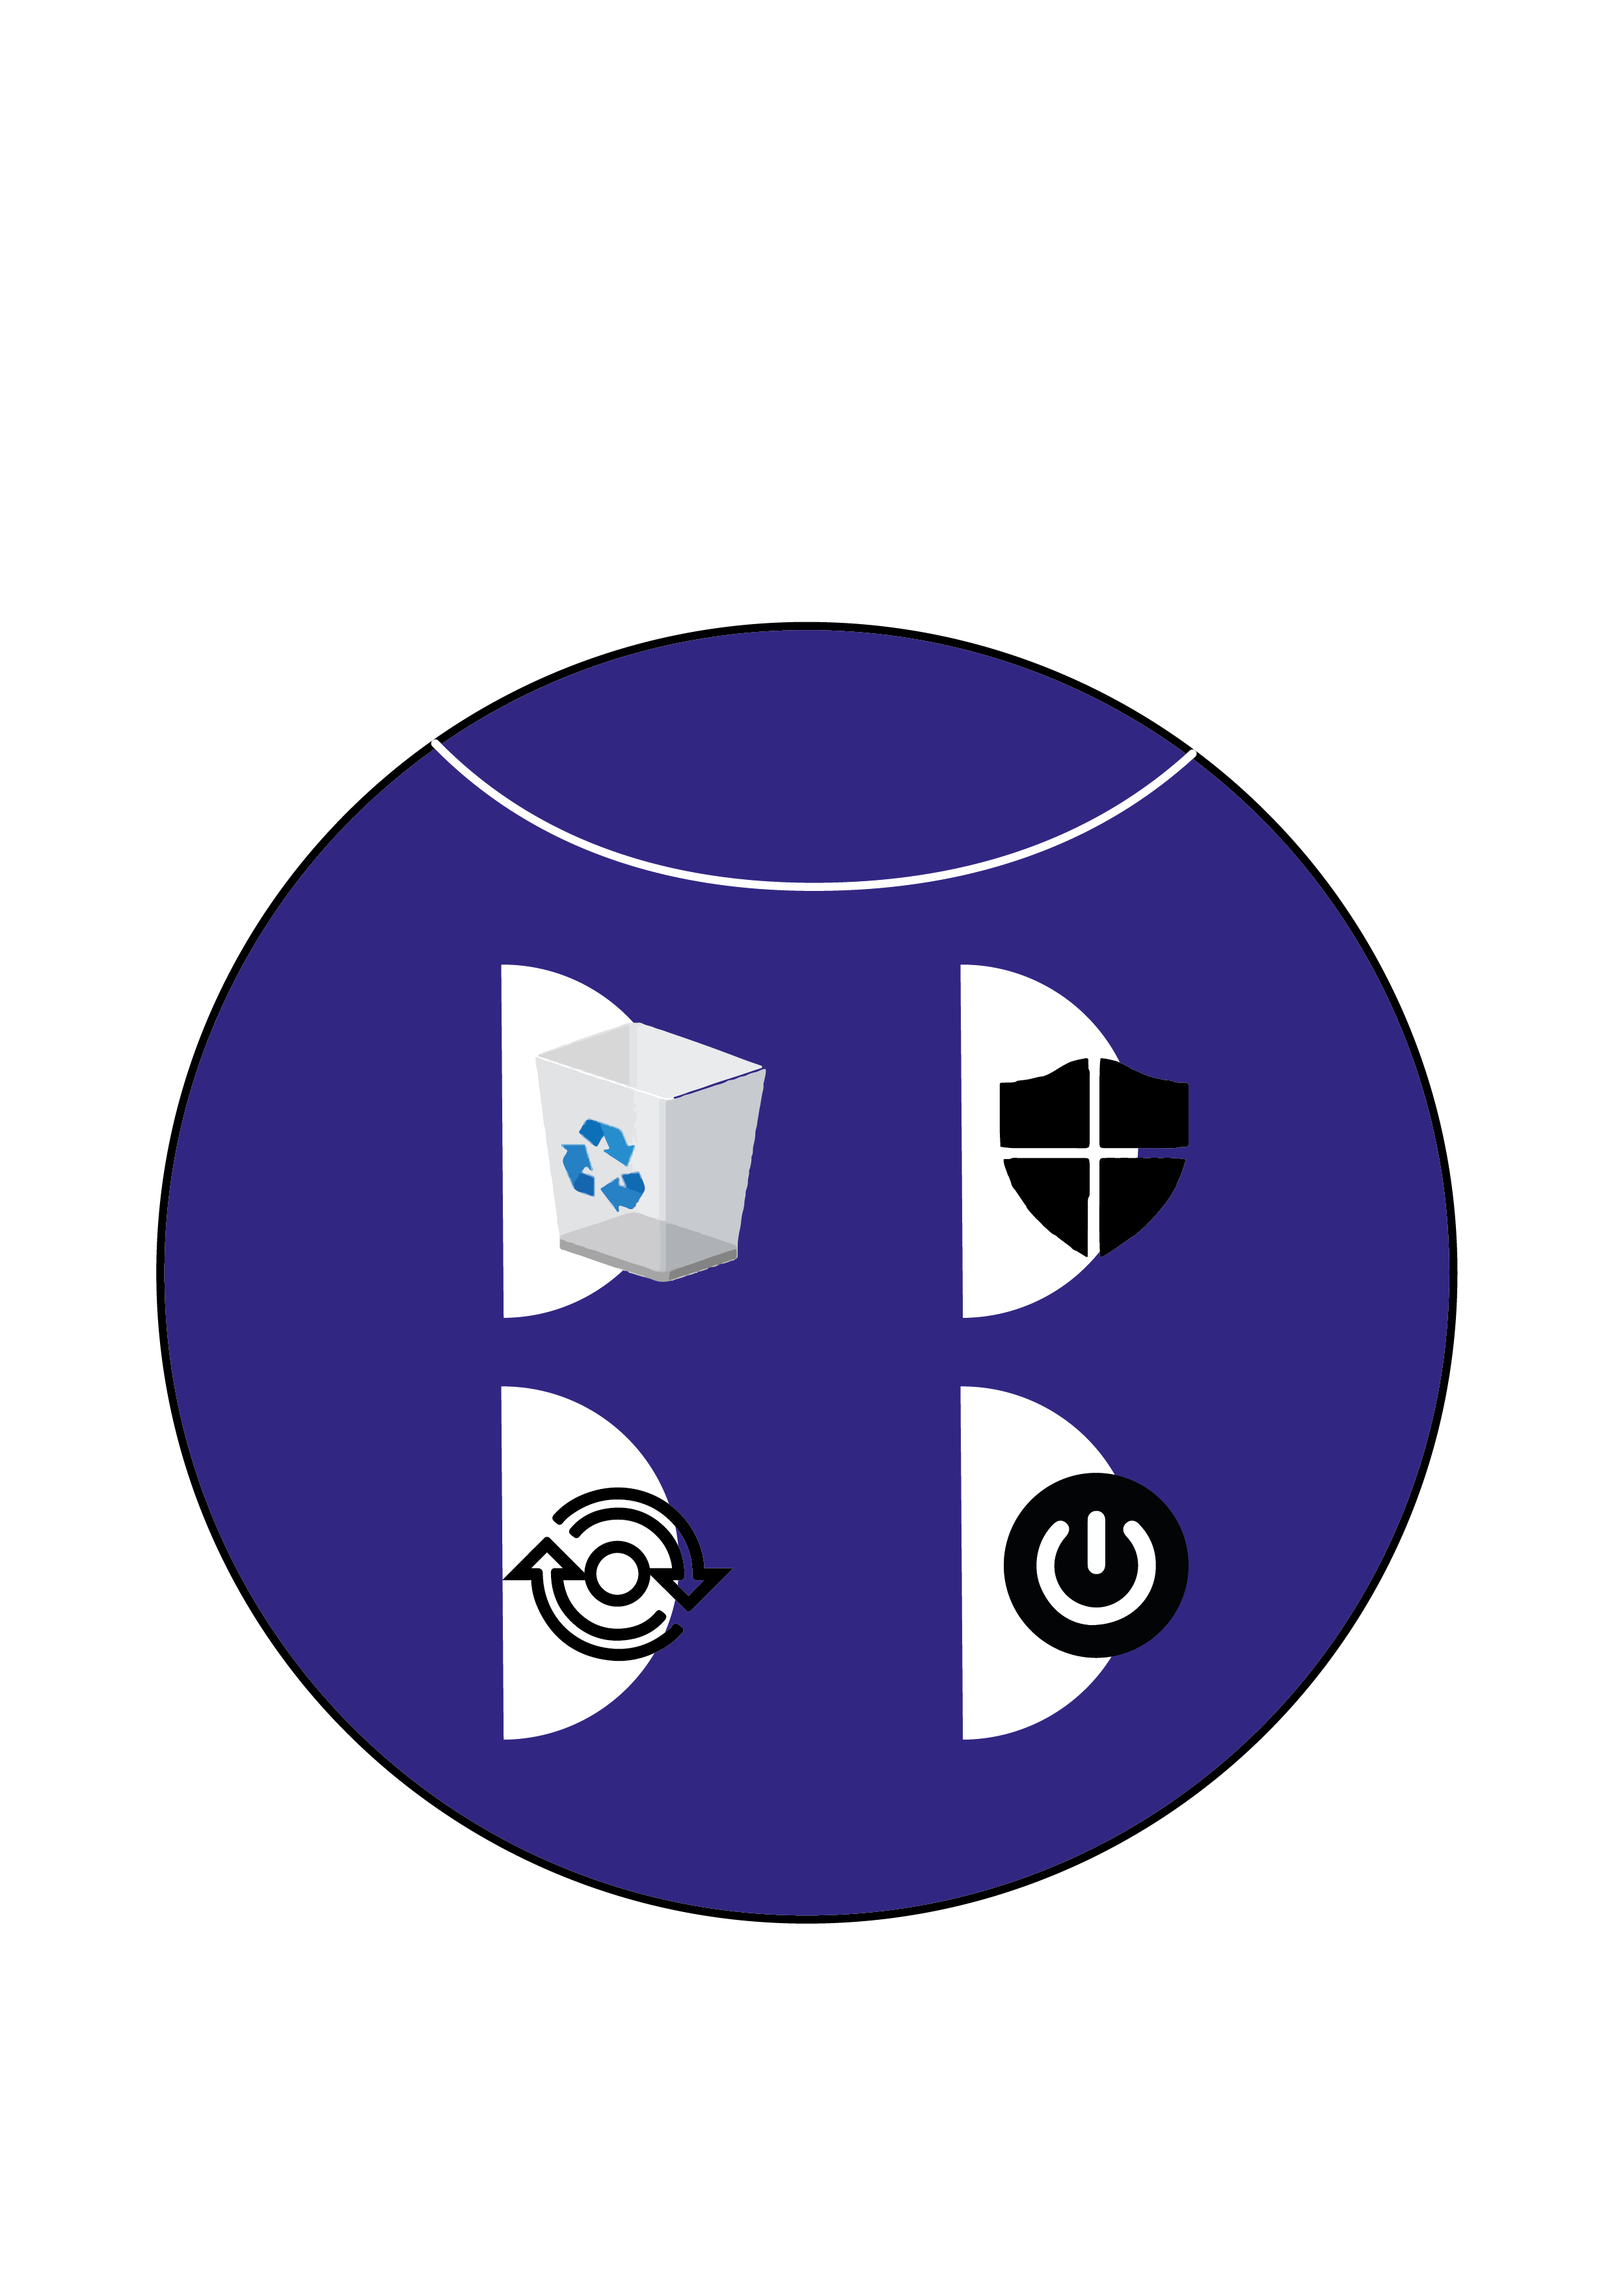
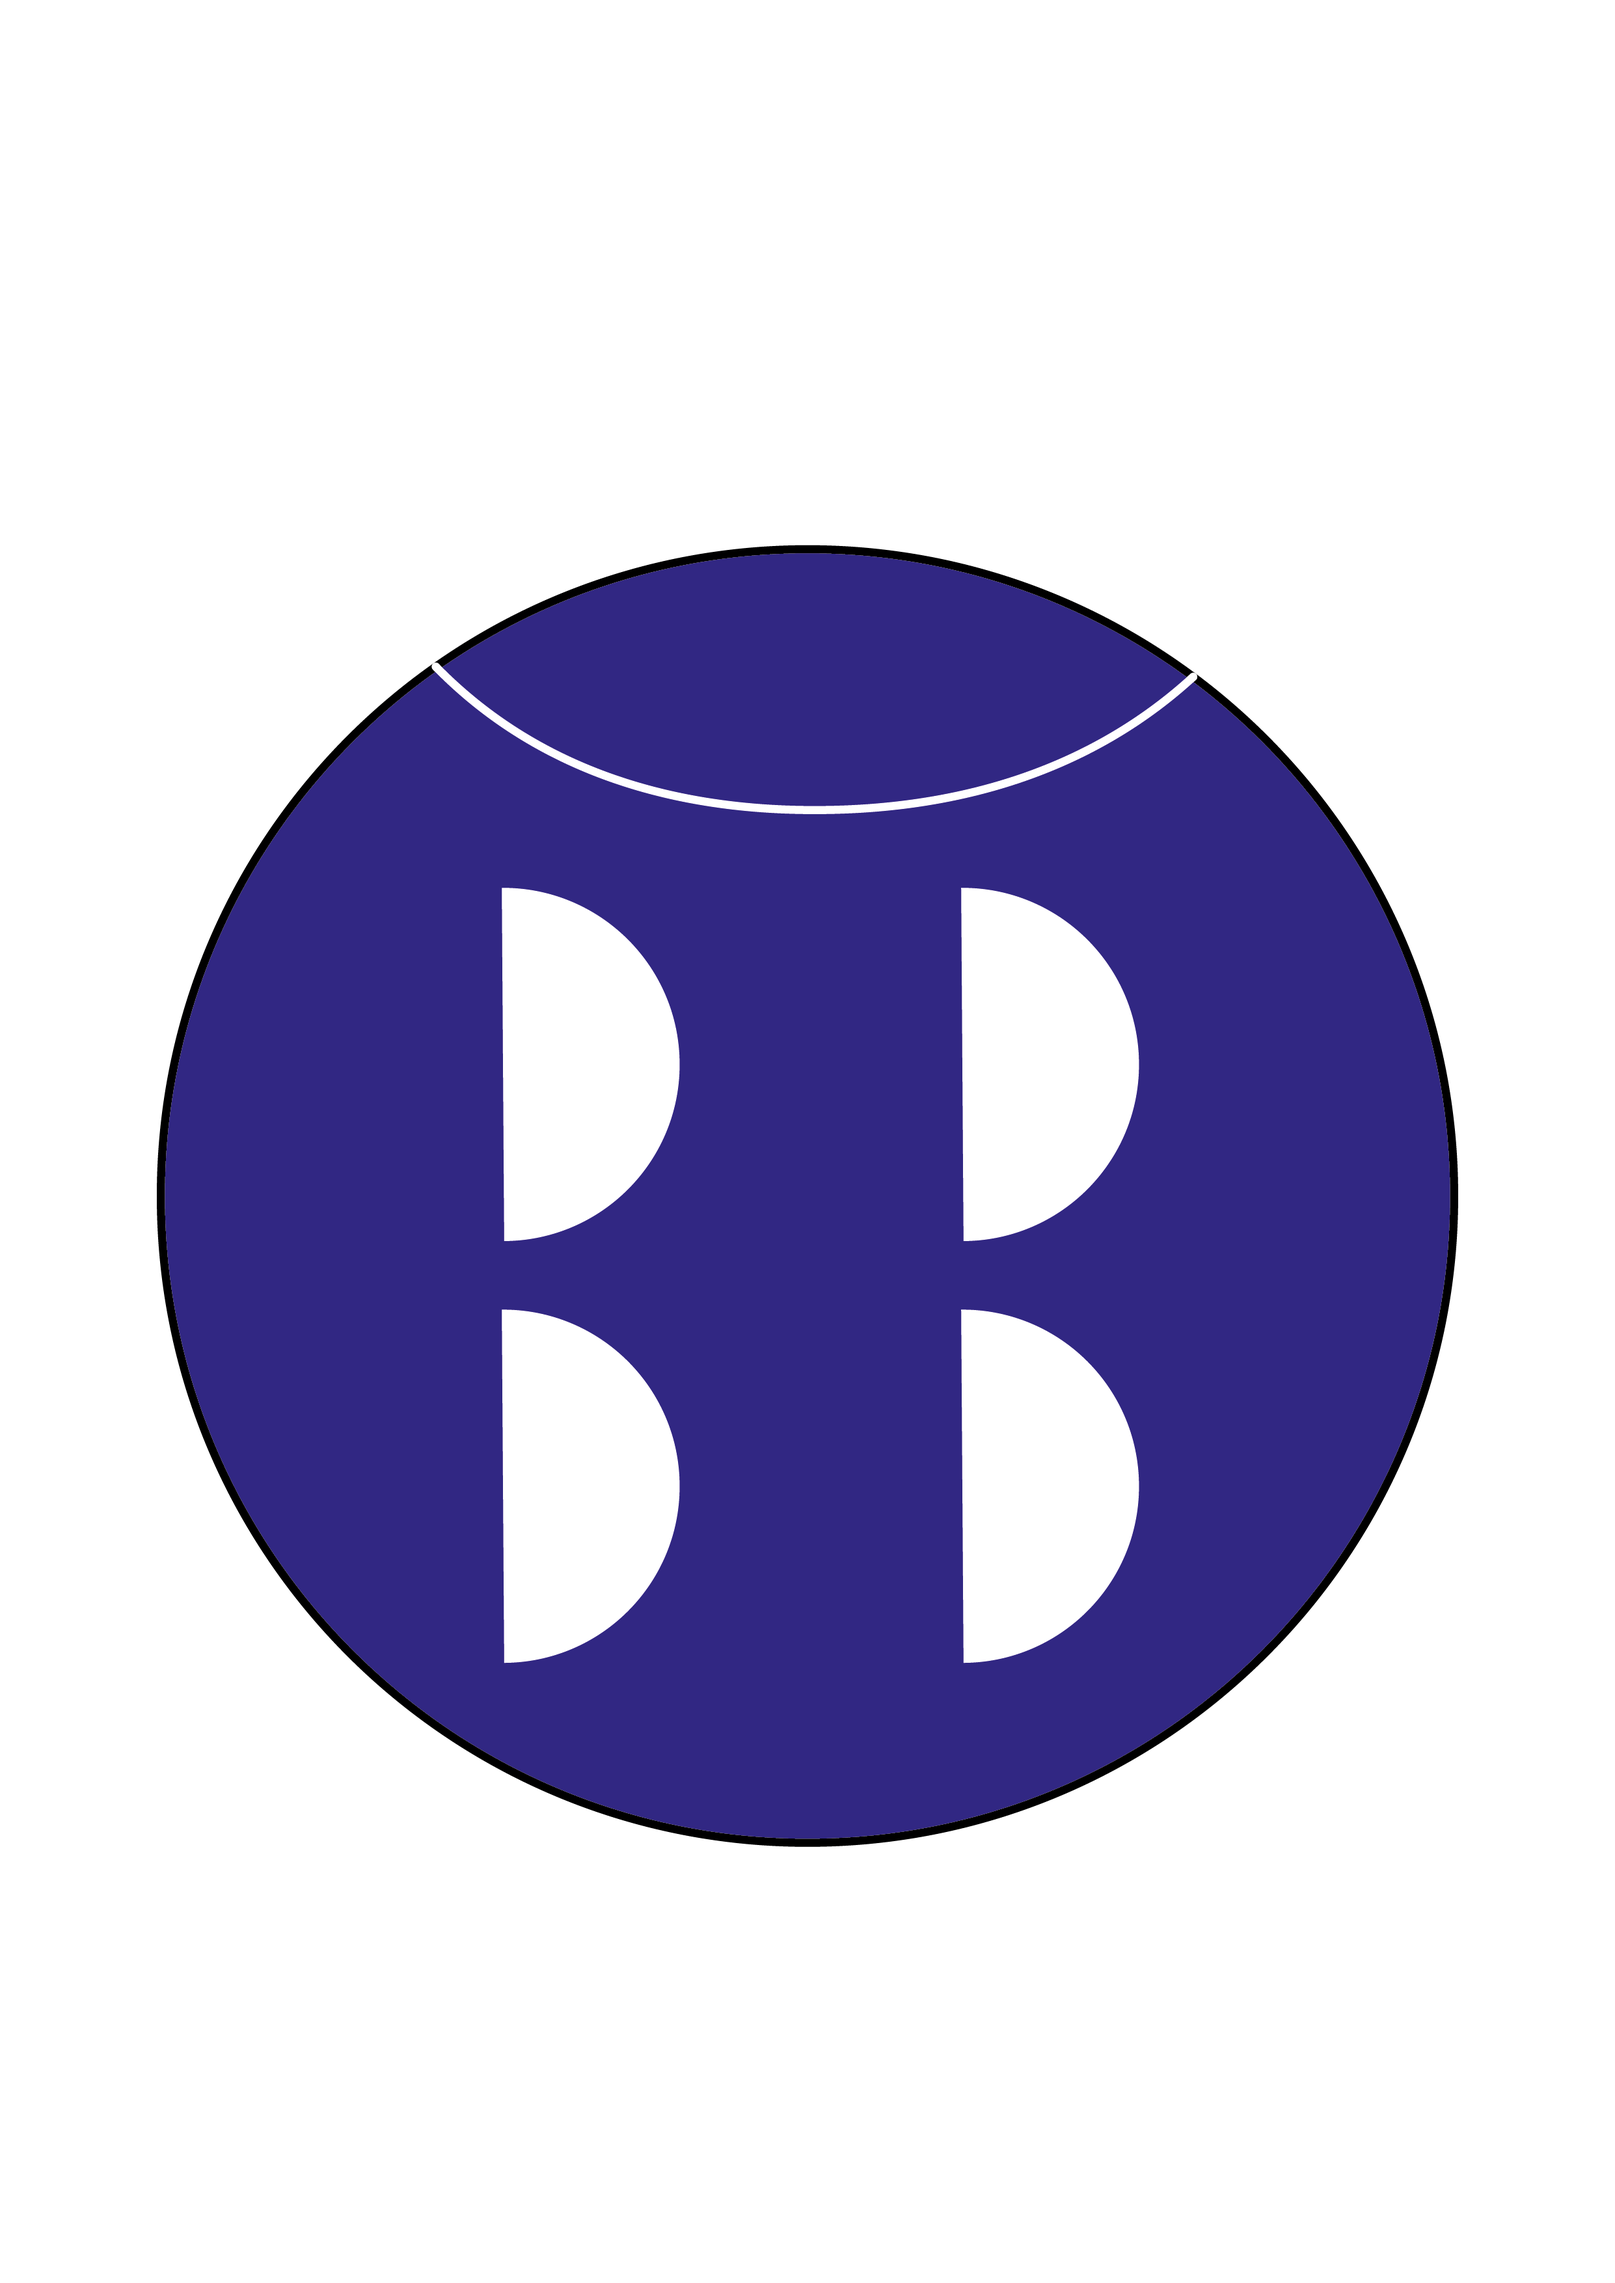
Update frontend
Se agregaron botones en utilidades solo falta posicionarlos y darle mas tamaño.

Changed region(s): [[0.0931, 0.2175, 0.9, 0.87]]

diff --git a/frontend/src/app/components/utilidades/utilidades.component.html b/frontend/src/app/components/utilidades/utilidades.component.html
@@ -1,1 +1,60 @@
-<div class="img"></div>
+<div class="container img border ">
+
+  <div class ="row"> <button class =" flecha"type="button" href="/home">
+
+    Flecha de regreso a home</button> </div>
+
+
+
+<div class ="row">
+
+  <div class="col-6">
+
+      <br><br>
+      <br><br>
+      <br><br><br>
+      <br>
+      <button class =" container papelera border"type="button">
+        <img src="../../../assets/images/papelera.png" height ="80" width="100" /></button>
+
+    <div class="col-sm-6"></div>
+
+  </div>
+
+    <div class="col-sm-6">
+
+        <br><br>
+        <br><br>
+        <br><br><br><br>
+
+        <button class ="container antivirus border"type="button ">
+          <img src="../../../assets/images/seguridad.png" height ="80" width="100" /></button>
+
+      <div class="col-sm-6"></div>
+
+
+    </div>
+
+<div class="row">
+  <div class="col-sm-6">
+
+<br><br>
+      <button class =" container w-update border"type="button">
+        <img src="../../../assets/images/Wupdate.png" height ="80" width="100" /></button>
+
+  </div>
+
+    <div class="col-sm-6">
+
+        <br><br>
+
+        <button class =" container apagado border"type="button">
+           <img src="../../../assets/images/apagado.png" height ="80" width="100" /></button>
+
+    </div>
+
+</div>
+
+</div>
+
+

diff --git a/frontend/src/app/components/home/home.component.html b/frontend/src/app/components/home/home.component.html
@@ -4,20 +4,20 @@
 
     <div class="row">
       <div class="col">
-        <div class="container " >
+
           <br><br>
           <br><br>
           <br><br><br>
           <br>
-          <a type ="nav-link" class="btn atajos " href="/atajos" >Atajos</a>
-        </div>
+          <a type ="nav-link " class="container btn atajos  " href="/atajos" >Atajos</a>
+
       </div>
       <div class="col" >
         <br><br>
         <br><br>
         <br><br><br>
         <br>
-        <a type ="nav-link" class="btn utilidades " href="/utilidades" >Utilidades</a>
+        <a type ="nav-link" class="btn utilidades container" href="/utilidades" >Utilidades</a>
       </div>
 
     </div>
@@ -25,12 +25,12 @@
     <div class="row" >
       <div class="col">
         <div class="container  " >
-          <a type ="nav-link" class="btn acerca-de " href="/acerca-de" >Acerca de</a>
+          <a type ="nav-link" class="container btn acerca-de " href="/acerca-de" >Acerca de</a>
         </div>
       </div>
       <div class="col" >
 
-        <a type ="nav-link" class="btn salir " href="/salir" >Salir</a>
+        <a type ="nav-link" class="container btn salir " href="/salir" >Salir</a>
       </div>
 
     </div>

diff --git a/frontend/src/app/components/utilidades/utilidades.component.scss b/frontend/src/app/components/utilidades/utilidades.component.scss
@@ -1,11 +1,30 @@
 .img {
   background-image: url(../../../assets/images/utilidades.png);
   background-repeat: no-repeat;
-  background-size:cover;
+  background-size: cover;
   height: 600px;
   width: 600px;
   background-attachment: absolute;
-  background-position: center center ;
+  background-position: center center;
+  justify-content: center;
 
+}
+.papelera {
+  background-color: transparent;
+  border-color: transparent;
 
+float: right;
+
+}
+.w-update {
+  background-color: transparent;
+  border-color: transparent;
+}
+.apagado {
+  background-color: transparent;
+  border-color: transparent;
+}
+.antivirus {
+  background-color: transparent;
+  border-color: transparent;
 }

diff --git a/frontend/src/styles.scss b/frontend/src/styles.scss
@@ -1,6 +1,8 @@
 /* You can add global styles to this file, and also import other style files */
 body{
-  background: #1296F7;
+  background: #f8af11de;
+  //background: #115af8de;
+
 
 }
 

diff --git a/frontend/src/app/components/home/home.component.scss b/frontend/src/app/components/home/home.component.scss
@@ -25,7 +25,7 @@ font-weight: bold;
 .utilidades{
 
   background-color: transparent;
-  width: 120px;
+  width: 110px;
   height: 30px;
   font-size: 120%;
   color:white;

diff --git a/frontend/src/app/components/home/home.component.ts b/frontend/src/app/components/home/home.component.ts
@@ -15,9 +15,7 @@ export class HomeComponent implements OnInit {
 
   ngOnInit(): void {
   }
-  abriratajos(){
-    
-  }
+  
 
 
 }

diff --git a/frontend/src/app/components/atajos/atajos.component.html b/frontend/src/app/components/atajos/atajos.component.html
@@ -1,1 +1,1 @@
-<div class="img"></div>
+<div class="container img border "></div>
